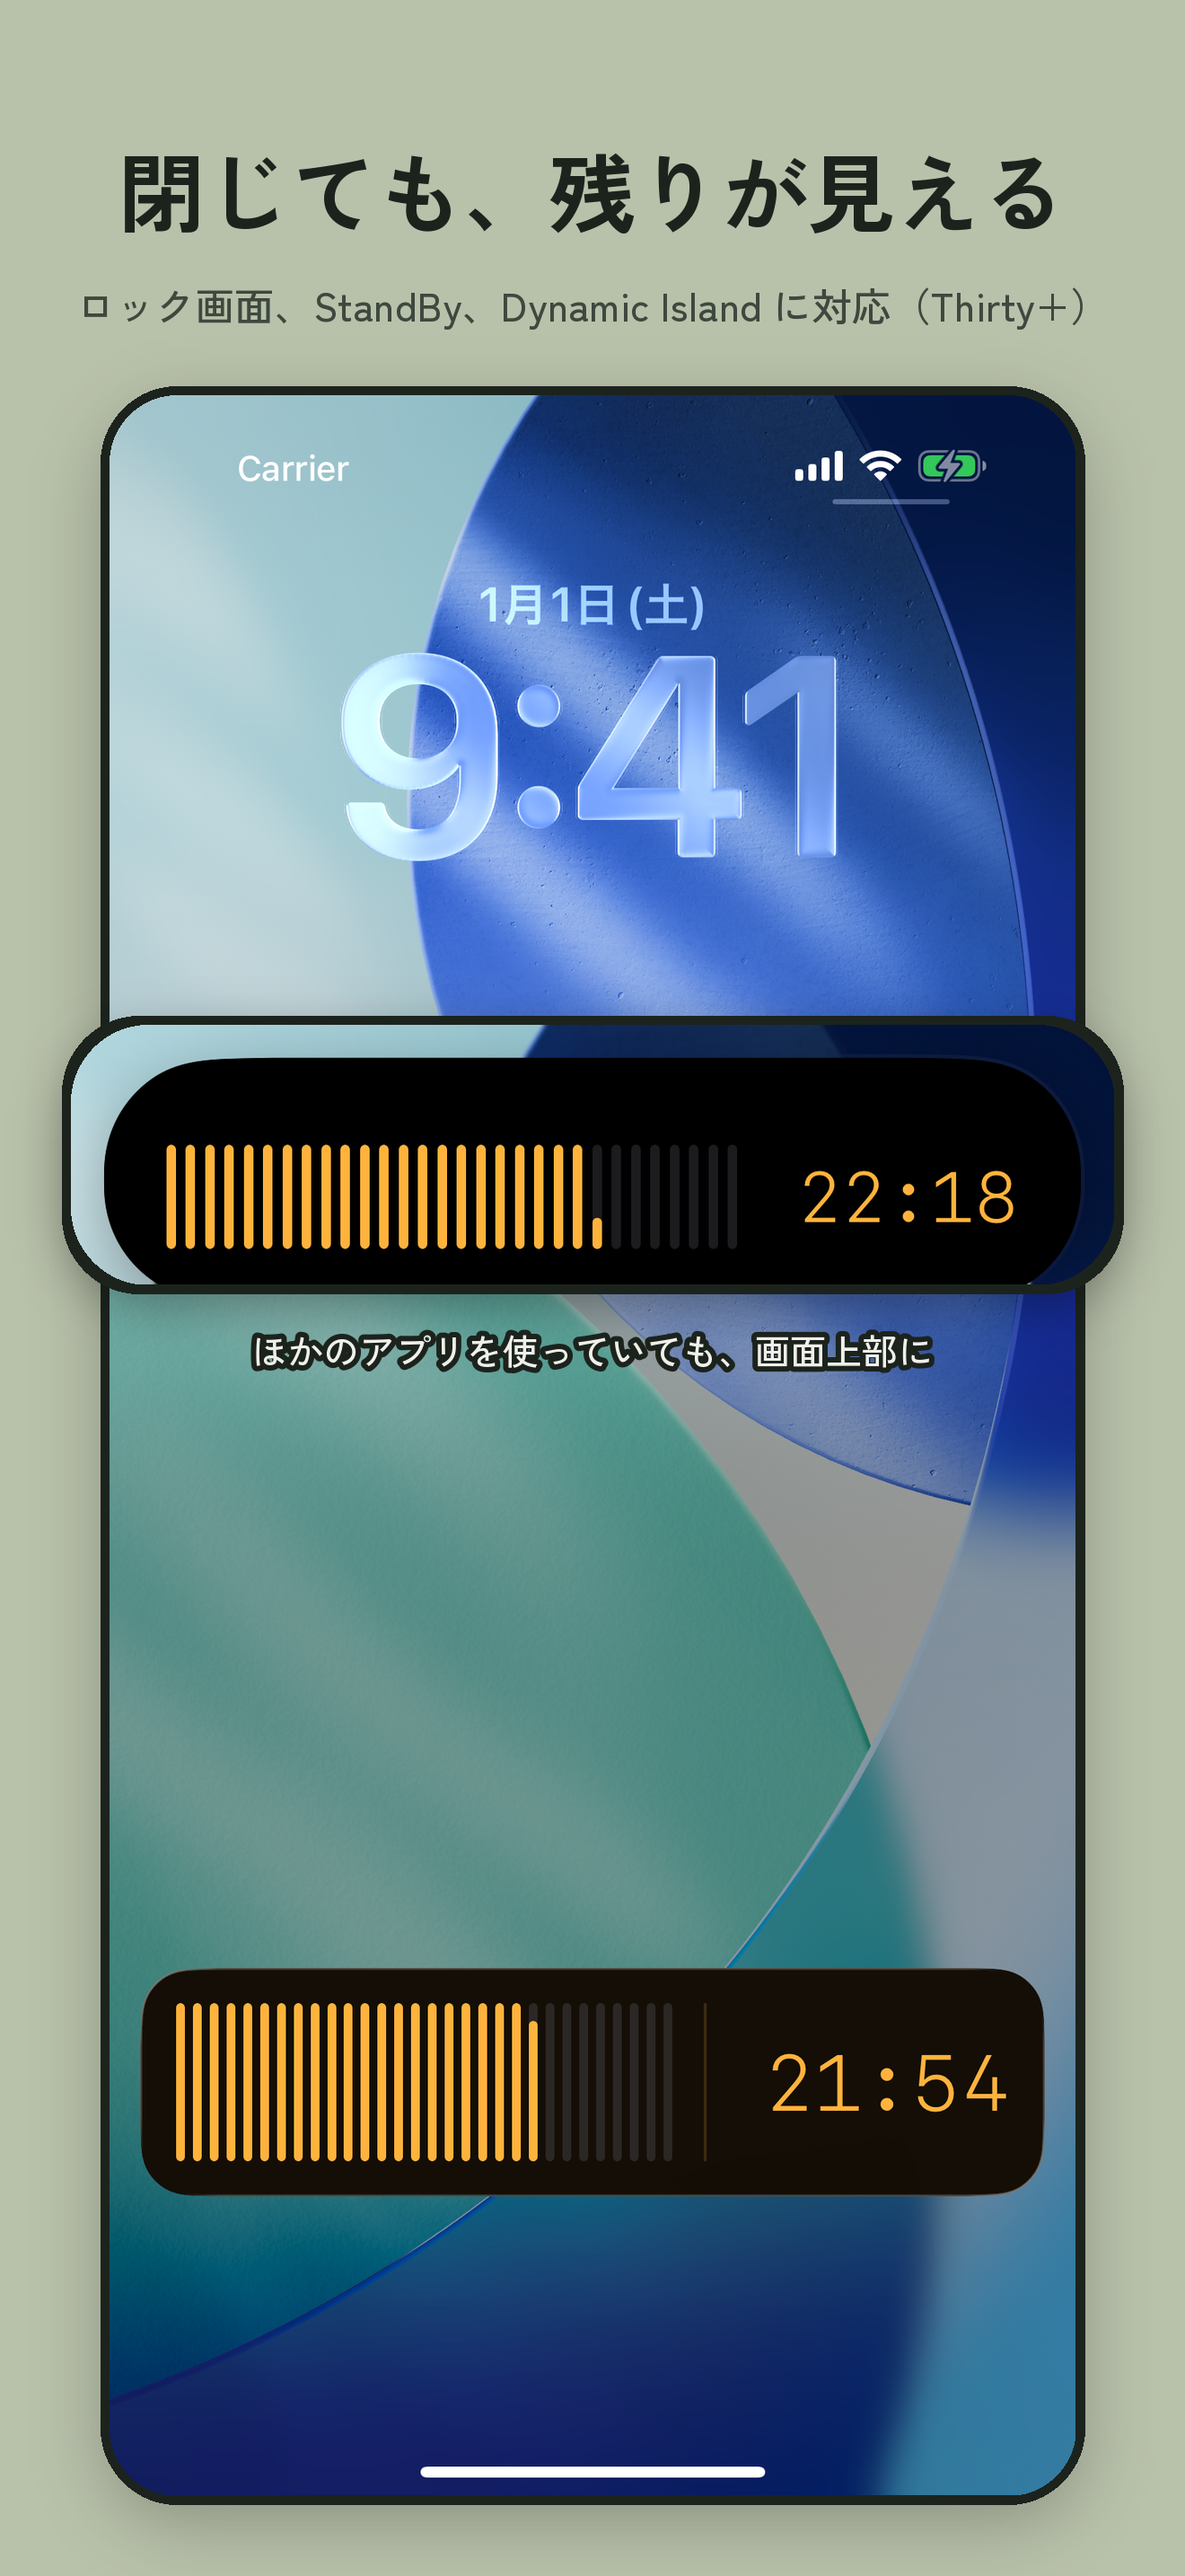
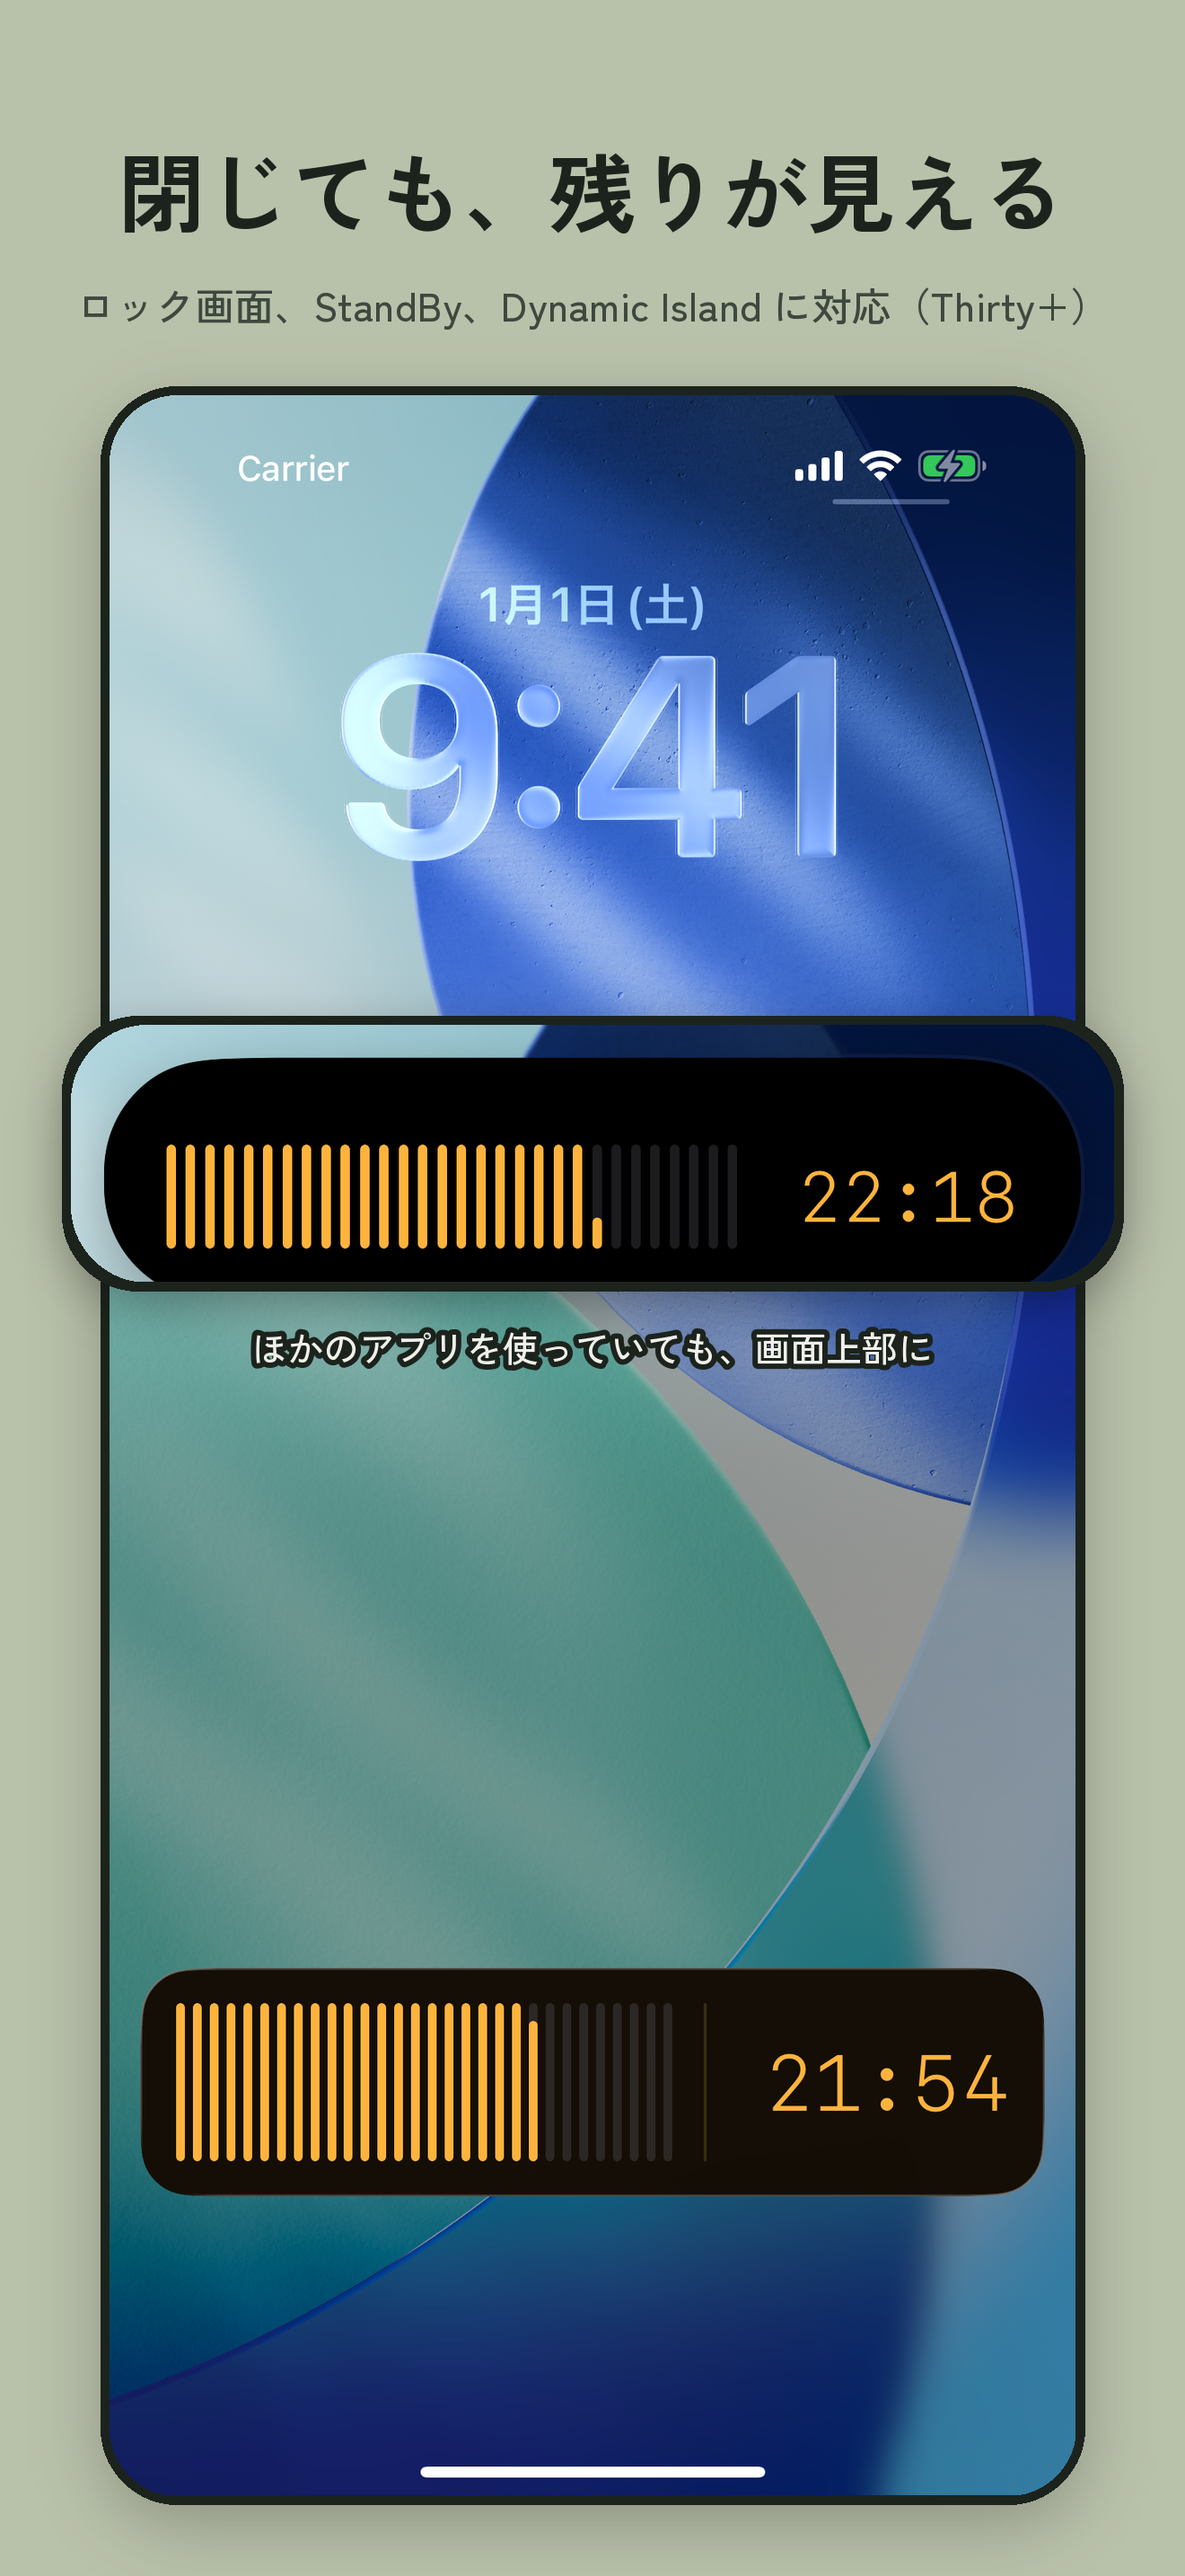
Fix the build number upload and the Dynamic Island crop (#7)
Set CFBundleVersion/CFBundleShortVersionString from the build settings so
CURRENT_PROJECT_VERSION reaches the app and widget bundles, and fail the
release job early if it does not. Crop the Dynamic Island capture at the
end of the pill instead of a fixed height.

Claude-Session: https://claude.ai/code/session_01461pZAnVnBA53zFJZoAB8C

Changed region(s): [[0.2174, 0.4965, 0.8076, 0.5586]]

diff --git a/scripts/make_store_screenshots.py b/scripts/make_store_screenshots.py
@@ -56,6 +56,22 @@ def fit(draw, text, kind, size, max_width):
     return font(kind, size)
 
 
+def island_bottom(image):
+    """Find where the expanded Dynamic Island ends, so the crop keeps all of it
+    and none of the home screen below (whose icons can also be dark)."""
+    x = int(image.width * 0.07)  # left of the slats, inside the pill
+    dark = lambda y: sum(image.getpixel((x, y))[:3]) < 60
+    y = 0
+    limit = int(image.height * 0.3)
+    while y < limit and not dark(y):
+        y += 1
+    while y < limit and dark(y):
+        y += 1
+    if y >= limit:
+        y = int(image.height * 0.17)
+    return min(image.height, y + int(image.height * 0.004))
+
+
 def rounded(image, radius):
     mask = Image.new("L", image.size, 0)
     ImageDraw.Draw(mask).rounded_rectangle((0, 0, *image.size), radius=radius, fill=255)
@@ -76,7 +92,7 @@ def compose(raw_path, out_path):
     # (with its test-runner icon) stays out of the picture.
     island = raw_path.stem == "06-dynamic-island"
     if island:
-        raw = raw.crop((0, 0, width, int(height * 0.115)))
+        raw = raw.crop((0, 0, width, island_bottom(raw)))
     title, subtitle = CAPTIONS[raw_path.stem]
     canvas = Image.new("RGB", (width, height), BACKGROUND)
     draw = ImageDraw.Draw(canvas)
@@ -110,7 +126,7 @@ def compose(raw_path, out_path):
     island_path = raw_path.with_name("06-dynamic-island.png")
     if raw_path.stem == "06-lock-screen" and island_path.exists():
         island_raw = Image.open(island_path).convert("RGB")
-        strip = island_raw.crop((0, 0, island_raw.width, int(island_raw.height * 0.115)))
+        strip = island_raw.crop((0, 0, island_raw.width, island_bottom(island_raw)))
         zoom = (shot.width * 1.08) / strip.width
         strip = strip.resize((int(strip.width * zoom), int(strip.height * zoom)), Image.LANCZOS)
         sx, sy = (width - strip.width) // 2, y + int(shot.height * 0.30)
